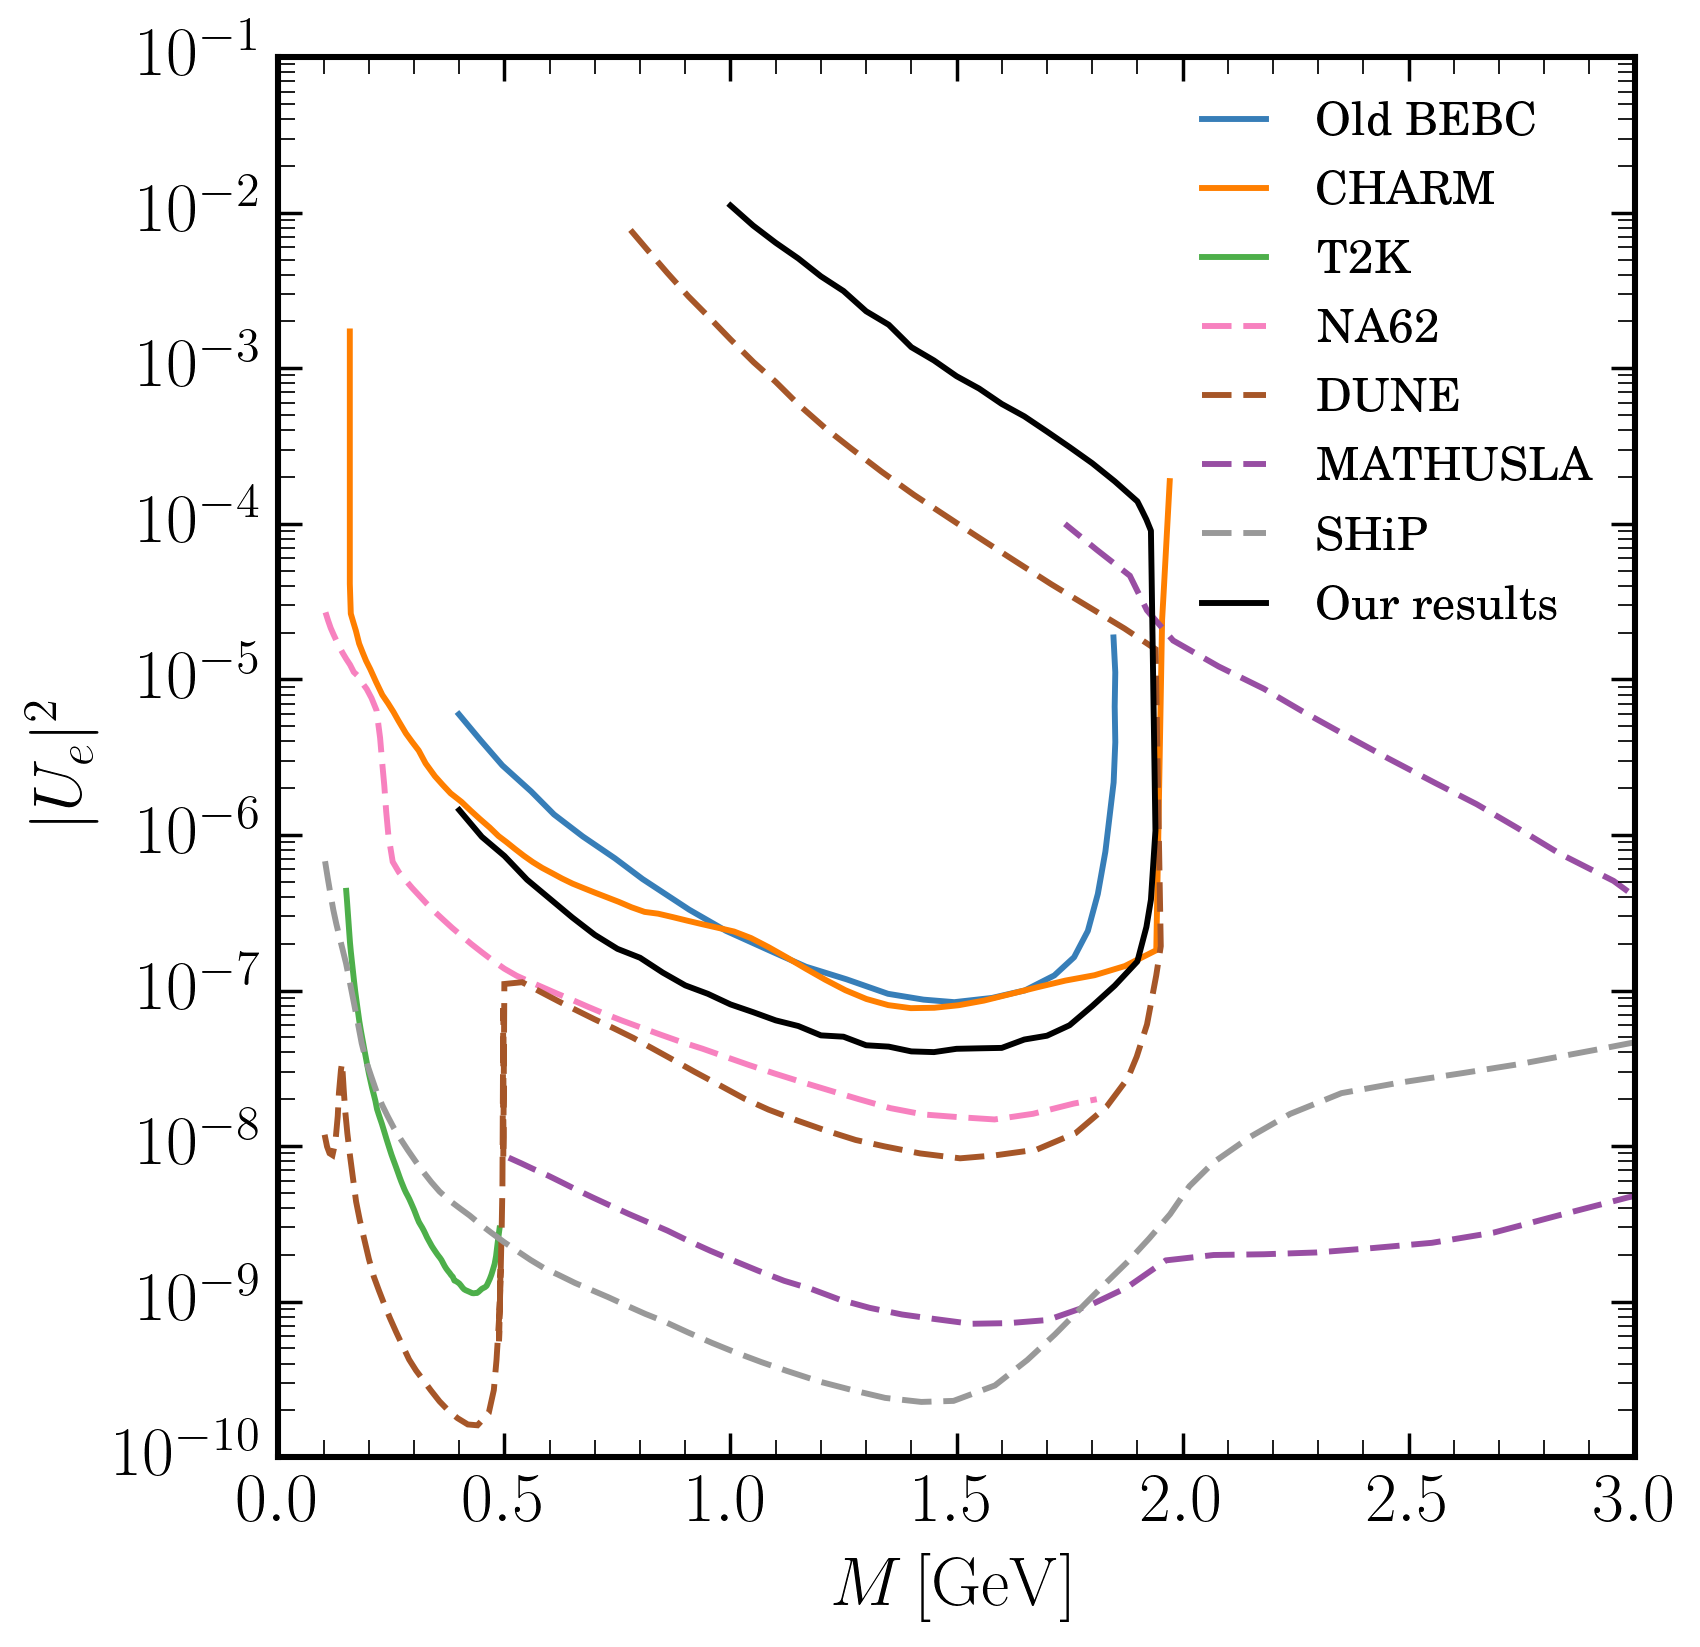
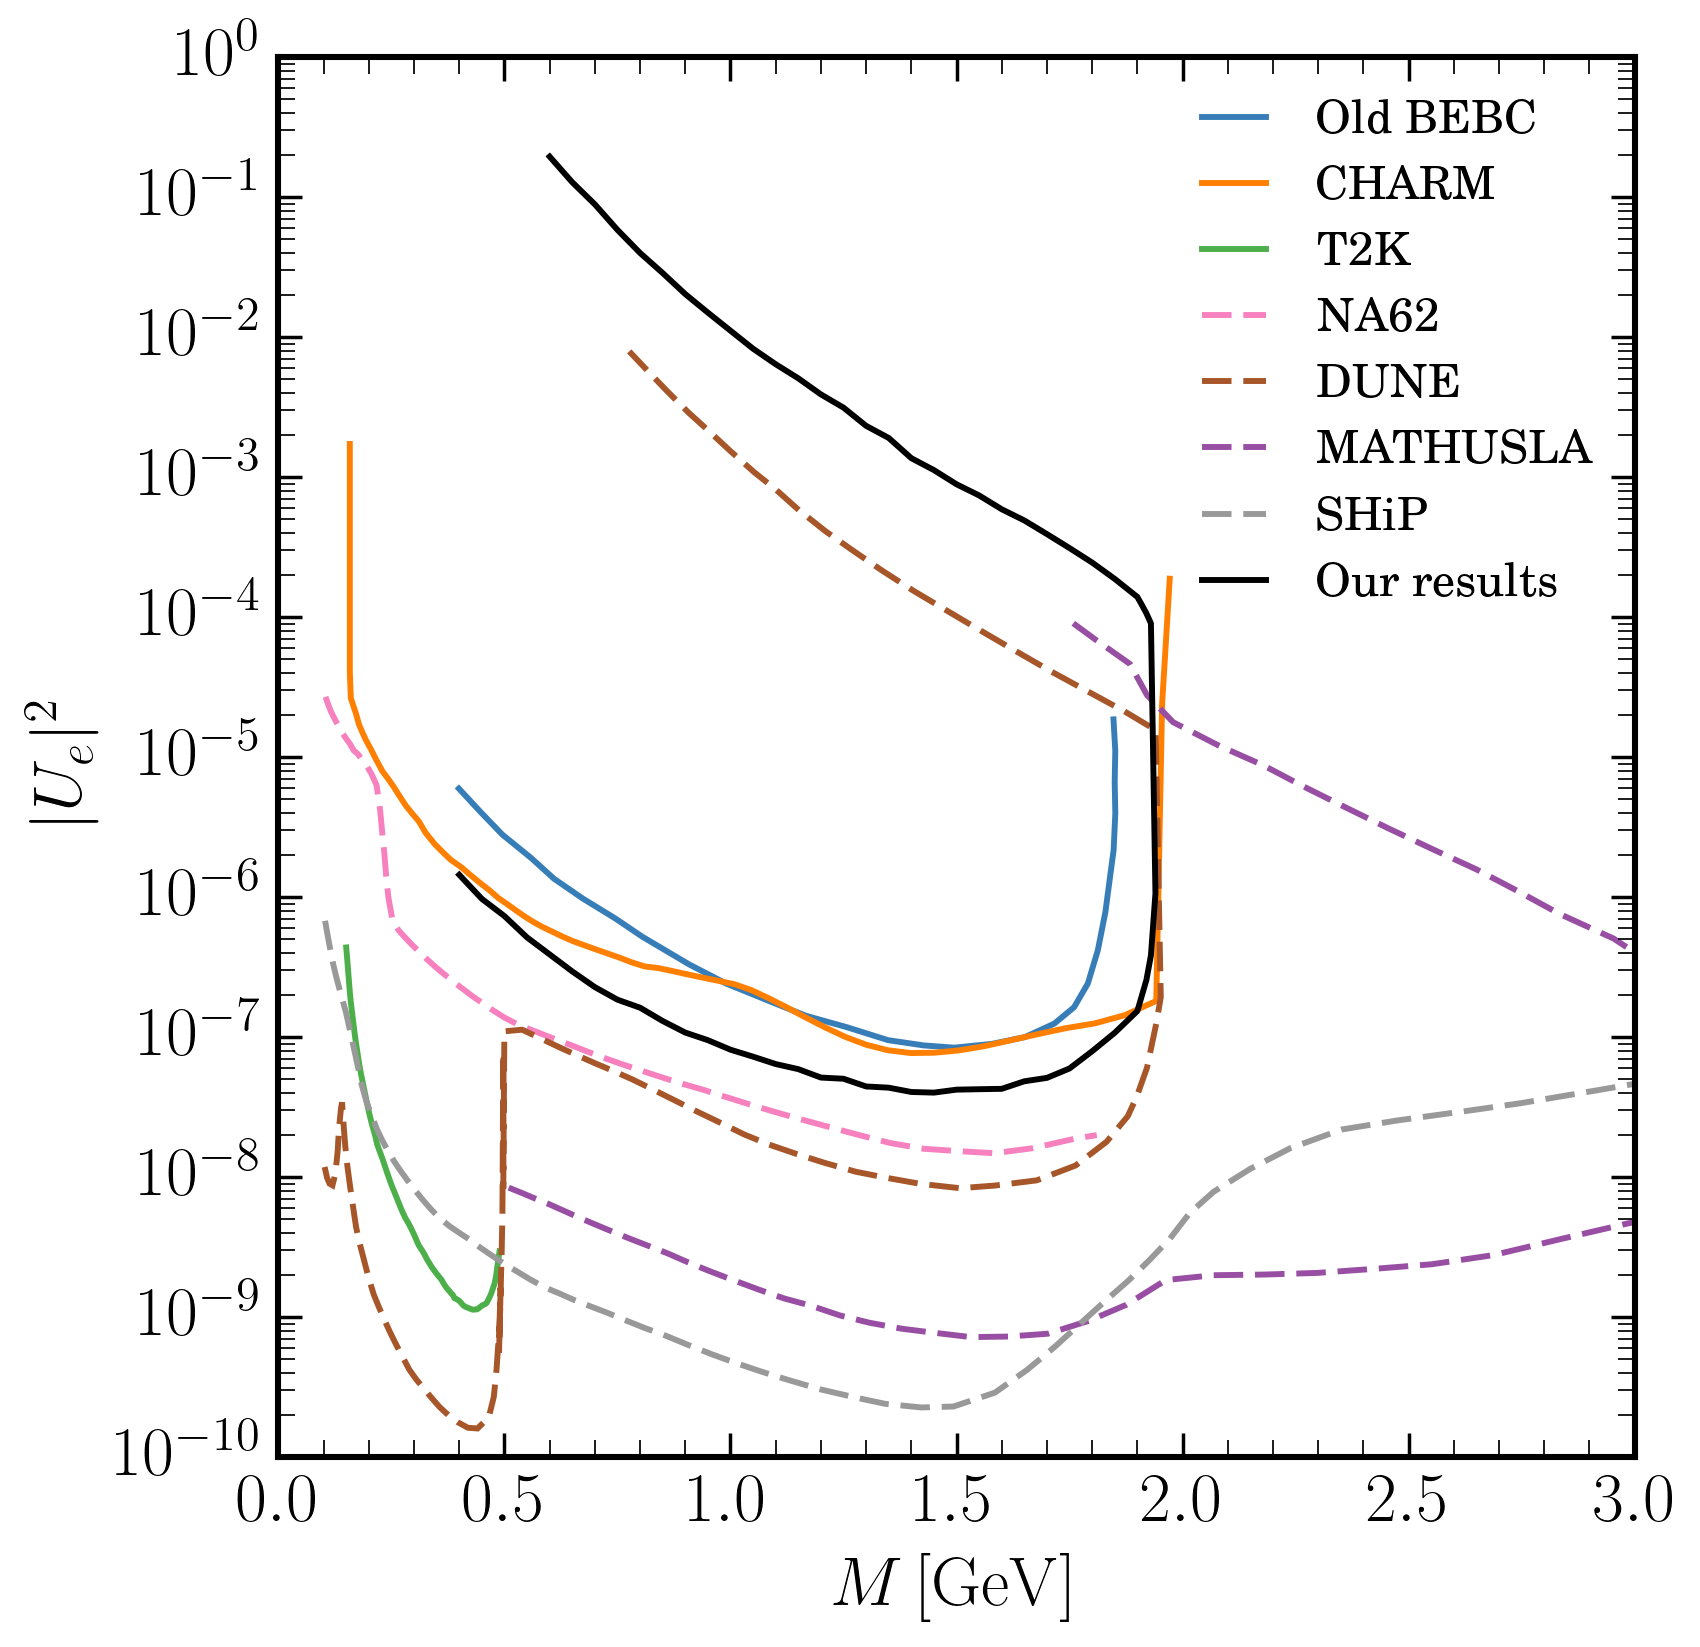
more lower bounds data from 0.6 - 0.95 GeV

diff --git a/plot_tau_bounds.py b/plot_tau_bounds.py
@@ -46,7 +46,7 @@ def main():
     plt.plot(*get_cols(mathusla), '--', dashes=(5,2), label="MATHUSLA")
     plt.yscale('log')
     plt.legend(fontsize="small")
-    plt.xlim([0,3])
+    plt.xlim([min(charm[:,0]),3])
     dirname = os.path.dirname(os.path.abspath(__file__))
     plt.fill(*get_cols(bounds), color="#ddd")
     # plt.fill(*get_cols(delphi), color="#ddd")

diff --git a/non_linear_calc.py b/non_linear_calc.py
@@ -28,7 +28,7 @@ def main():
 
     for hnl_mass in hnl_masses:
         lower_mixing = 1e-6
-        upper_mixing = 1e-1
+        upper_mixing = 1
         mixing = (upper_mixing + lower_mixing)/2
         prev_mixing = lower_mixing
         it = 0
